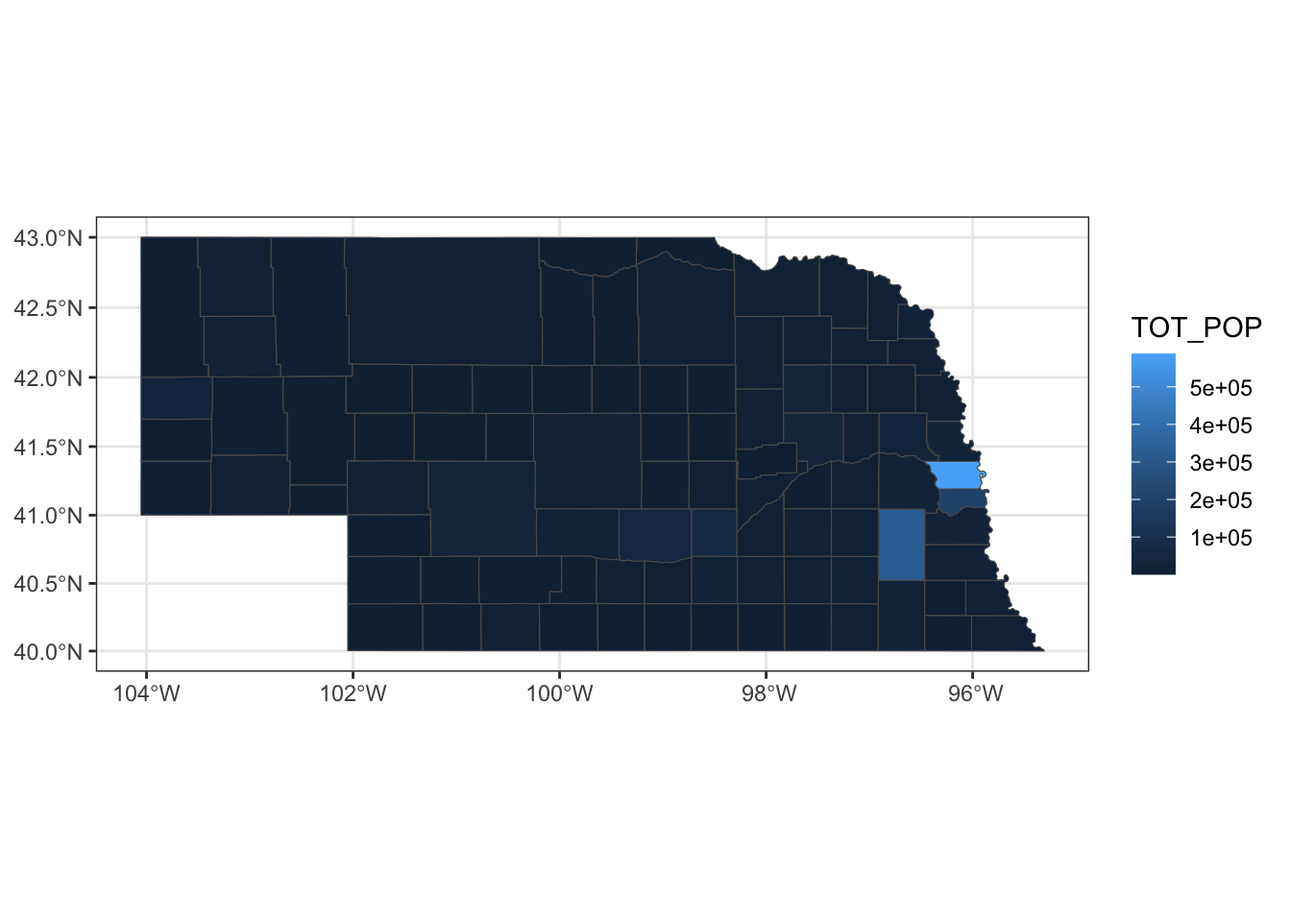
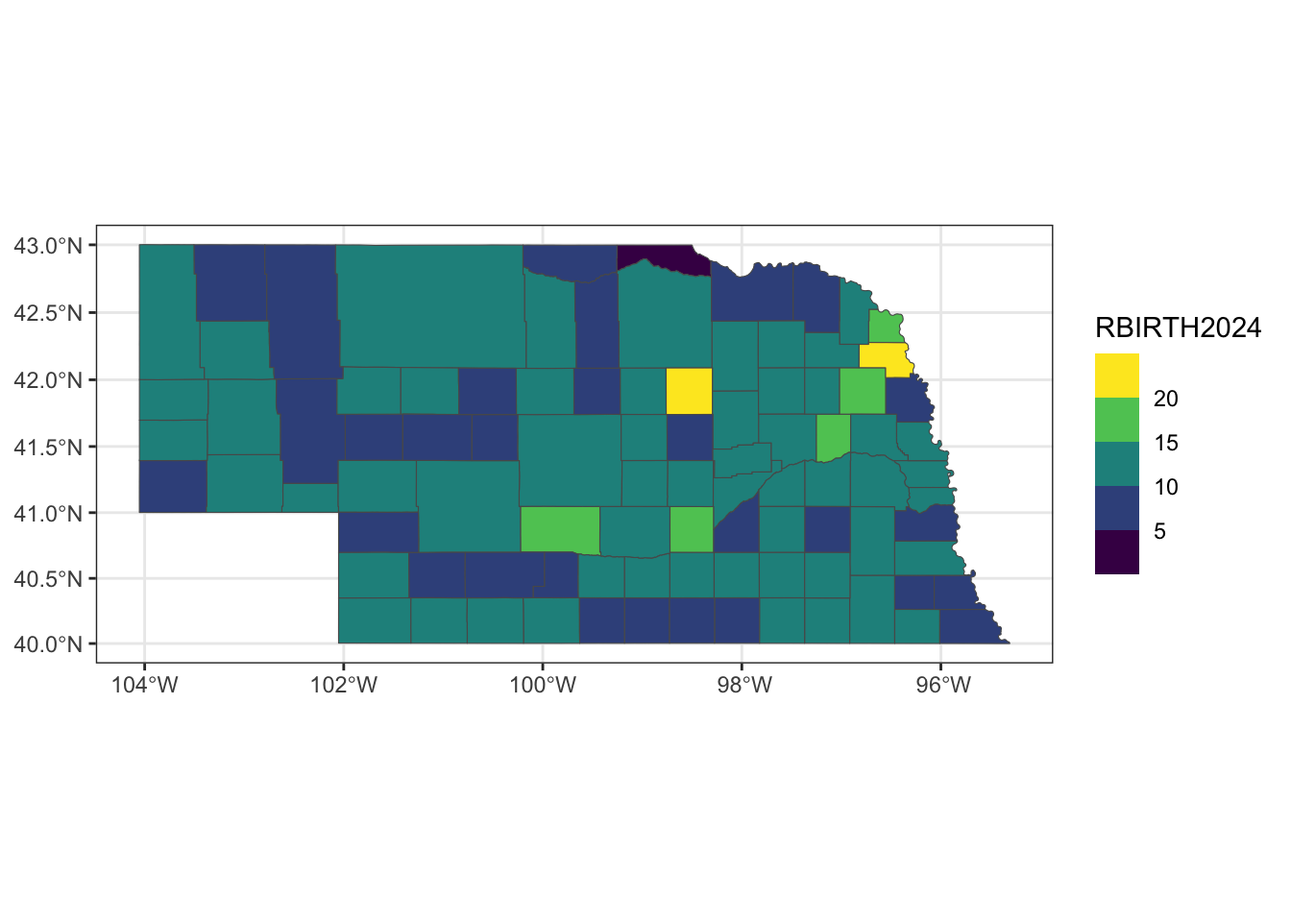
map making

diff --git a/Map_module.html b/Map_module.html
@@ -14,7 +14,7 @@
 
 <title>Mini-Module: Making Maps</title>
 
-<script src="site_libs/header-attrs-2.29/header-attrs.js"></script>
+<script src="site_libs/header-attrs-2.30/header-attrs.js"></script>
 <script src="site_libs/jquery-3.6.0/jquery-3.6.0.min.js"></script>
 <meta name="viewport" content="width=device-width, initial-scale=1" />
 <link href="site_libs/bootstrap-3.3.5/css/sandstone.min.css" rel="stylesheet" />
@@ -359,7 +359,8 @@ from somewhere.</p>
 <h3>Load packages:</h3>
 <pre class="r"><code>library(tidyverse)
 library(sf)
-library(tmap)</code></pre>
+library(tmap)
+library(tigris)</code></pre>
 </div>
 <div id="download-shapefile-plot-nebraska-example"
 class="section level3">
@@ -836,18 +837,84 @@ head(co_data)</code></pre>
 <p><img src="Map_module_files/figure-html/unnamed-chunk-17-1.png" width="672" /></p>
 <pre class="r"><code>ggplot() +
   geom_sf(data=ne_full2024, aes(fill=POPESTIMATE2024)) +
+  scale_fill_viridis_b() +
   theme_bw()</code></pre>
 <p><img src="Map_module_files/figure-html/unnamed-chunk-18-1.png" width="672" /></p>
-<pre class="r"><code># ggplot() +
-#   geom_sf(data=ne_full2024, aes(fill=RBIRTH2024)) +
-#   theme_bw()</code></pre>
-<pre class="r"><code># unl=data.frame(long=693966.4754863544, lat=4521321.303476614 )
-# 
-# ggplot() +
-#   geom_sf(data=ne_full2024, aes(fill=NPOPCHG2024)) +
-#   annotate(&quot;point&quot;, x=unl$long, y=unl$lat) +
-#   theme_bw() </code></pre>
+<p>Birth rate in 2024</p>
+<pre class="r"><code>ggplot() +
+  geom_sf(data=ne_full2024, aes(fill=RBIRTH2024)) +
+  scale_fill_viridis_b() +
+  theme_bw()</code></pre>
+<p><img src="Map_module_files/figure-html/unnamed-chunk-19-1.png" width="672" /></p>
+<p>International migration rate in 2024</p>
+<pre class="r"><code>ggplot() +
+  geom_sf(data=ne_full2024, aes(fill=RINTERNATIONALMIG2024)) +
+  scale_fill_viridis_b() +
+  theme_bw()</code></pre>
+<p><img src="Map_module_files/figure-html/unnamed-chunk-20-1.png" width="672" /></p>
 </div>
+<div id="use-tigris-package" class="section level3">
+<h3>Use tigris package</h3>
+<pre class="r"><code>ne_tig=counties(&quot;Nebraska&quot;, cb=TRUE)</code></pre>
+<pre><code>## Retrieving data for the year 2024</code></pre>
+<pre><code>##   |                                                                              |                                                                      |   0%  |                                                                              |                                                                      |   1%  |                                                                              |=                                                                     |   1%  |                                                                              |=                                                                     |   2%  |                                                                              |==                                                                    |   2%  |                                                                              |==                                                                    |   3%  |                                                                              |==                                                                    |   4%  |                                                                              |===                                                                   |   4%  |                                                                              |===                                                                   |   5%  |                                                                              |====                                                                  |   5%  |                                                                              |====                                                                  |   6%  |                                                                              |=====                                                                 |   6%  |                                                                              |=====                                                                 |   7%  |                                                                              |=====                                                                 |   8%  |                                                                              |======                                                                |   8%  |                                                                              |======                                                                |   9%  |                                                                              |=======                                                               |   9%  |                                                                              |=======                                                               |  10%  |                                                                              |=======                                                               |  11%  |                                                                              |========                                                              |  11%  |                                                                              |========                                                              |  12%  |                                                                              |=========                                                             |  12%  |                                                                              |=========                                                             |  13%  |                                                                              |=========                                                             |  14%  |                                                                              |==========                                                            |  14%  |                                                                              |==========                                                            |  15%  |                                                                              |===========                                                           |  15%  |                                                                              |===========                                                           |  16%  |                                                                              |============                                                          |  16%  |                                                                              |============                                                          |  17%  |                                                                              |============                                                          |  18%  |                                                                              |=============                                                         |  18%  |                                                                              |=============                                                         |  19%  |                                                                              |==============                                                        |  19%  |                                                                              |==============                                                        |  20%  |                                                                              |==============                                                        |  21%  |                                                                              |===============                                                       |  21%  |                                                                              |===============                                                       |  22%  |                                                                              |================                                                      |  22%  |                                                                              |================                                                      |  23%  |                                                                              |================                                                      |  24%  |                                                                              |=================                                                     |  24%  |                                                                              |=================                                                     |  25%  |                                                                              |==================                                                    |  25%  |                                                                              |==================                                                    |  26%  |                                                                              |===================                                                   |  26%  |                                                                              |===================                                                   |  27%  |                                                                              |===================                                                   |  28%  |                                                                              |====================                                                  |  28%  |                                                                              |====================                                                  |  29%  |                                                                              |=====================                                                 |  29%  |                                                                              |=====================                                                 |  30%  |                                                                              |=====================                                                 |  31%  |                                                                              |======================                                                |  31%  |                                                                              |======================                                                |  32%  |                                                                              |=======================                                               |  32%  |                                                                              |=======================                                               |  33%  |                                                                              |=======================                                               |  34%  |                                                                              |========================                                              |  34%  |                                                                              |========================                                              |  35%  |                                                                              |=========================                                             |  35%  |                                                                              |=========================                                             |  36%  |                                                                              |==========================                                            |  36%  |                                                                              |==========================                                            |  37%  |                                                                              |==========================                                            |  38%  |                                                                              |===========================                                           |  38%  |                                                                              |===========================                                           |  39%  |                                                                              |============================                                          |  39%  |                                                                              |============================                                          |  40%  |                                                                              |============================                                          |  41%  |                                                                              |=============================                                         |  41%  |                                                                              |=============================                                         |  42%  |                                                                              |==============================                                        |  42%  |                                                                              |==============================                                        |  43%  |                                                                              |==============================                                        |  44%  |                                                                              |===============================                                       |  44%  |                                                                              |===============================                                       |  45%  |                                                                              |================================                                      |  45%  |                                                                              |================================                                      |  46%  |                                                                              |=================================                                     |  46%  |                                                                              |=================================                                     |  47%  |                                                                              |=================================                                     |  48%  |                                                                              |==================================                                    |  48%  |                                                                              |==================================                                    |  49%  |                                                                              |===================================                                   |  49%  |                                                                              |===================================                                   |  50%  |                                                                              |===================================                                   |  51%  |                                                                              |====================================                                  |  51%  |                                                                              |====================================                                  |  52%  |                                                                              |=====================================                                 |  52%  |                                                                              |=====================================                                 |  53%  |                                                                              |=====================================                                 |  54%  |                                                                              |======================================                                |  54%  |                                                                              |======================================                                |  55%  |                                                                              |=======================================                               |  55%  |                                                                              |=======================================                               |  56%  |                                                                              |========================================                              |  56%  |                                                                              |========================================                              |  57%  |                                                                              |========================================                              |  58%  |                                                                              |=========================================                             |  58%  |                                                                              |=========================================                             |  59%  |                                                                              |==========================================                            |  59%  |                                                                              |==========================================                            |  60%  |                                                                              |==========================================                            |  61%  |                                                                              |===========================================                           |  61%  |                                                                              |===========================================                           |  62%  |                                                                              |============================================                          |  62%  |                                                                              |============================================                          |  63%  |                                                                              |============================================                          |  64%  |                                                                              |=============================================                         |  64%  |                                                                              |=============================================                         |  65%  |                                                                              |==============================================                        |  65%  |                                                                              |==============================================                        |  66%  |                                                                              |===============================================                       |  67%  |                                                                              |===============================================                       |  68%  |                                                                              |================================================                      |  68%  |                                                                              |================================================                      |  69%  |                                                                              |=================================================                     |  69%  |                                                                              |=================================================                     |  70%  |                                                                              |=================================================                     |  71%  |                                                                              |==================================================                    |  71%  |                                                                              |==================================================                    |  72%  |                                                                              |===================================================                   |  72%  |                                                                              |===================================================                   |  73%  |                                                                              |===================================================                   |  74%  |                                                                              |====================================================                  |  74%  |                                                                              |====================================================                  |  75%  |                                                                              |=====================================================                 |  75%  |                                                                              |=====================================================                 |  76%  |                                                                              |======================================================                |  77%  |                                                                              |======================================================                |  78%  |                                                                              |=======================================================               |  78%  |                                                                              |=======================================================               |  79%  |                                                                              |========================================================              |  79%  |                                                                              |========================================================              |  80%  |                                                                              |========================================================              |  81%  |                                                                              |=========================================================             |  81%  |                                                                              |=========================================================             |  82%  |                                                                              |==========================================================            |  82%  |                                                                              |==========================================================            |  83%  |                                                                              |==========================================================            |  84%  |                                                                              |===========================================================           |  84%  |                                                                              |===========================================================           |  85%  |                                                                              |============================================================          |  85%  |                                                                              |============================================================          |  86%  |                                                                              |=============================================================         |  87%  |                                                                              |=============================================================         |  88%  |                                                                              |==============================================================        |  88%  |                                                                              |==============================================================        |  89%  |                                                                              |===============================================================       |  89%  |                                                                              |===============================================================       |  90%  |                                                                              |===============================================================       |  91%  |                                                                              |================================================================      |  91%  |                                                                              |================================================================      |  92%  |                                                                              |=================================================================     |  92%  |                                                                              |=================================================================     |  93%  |                                                                              |=================================================================     |  94%  |                                                                              |==================================================================    |  94%  |                                                                              |==================================================================    |  95%  |                                                                              |===================================================================   |  95%  |                                                                              |===================================================================   |  96%  |                                                                              |====================================================================  |  97%  |                                                                              |====================================================================  |  98%  |                                                                              |===================================================================== |  98%  |                                                                              |===================================================================== |  99%  |                                                                              |======================================================================|  99%  |                                                                              |======================================================================| 100%</code></pre>
+<pre class="r"><code>ne_tig</code></pre>
+<pre><code>## Simple feature collection with 93 features and 12 fields
+## Geometry type: MULTIPOLYGON
+## Dimension:     XY
+## Bounding box:  xmin: -104.0535 ymin: 40 xmax: -95.30829 ymax: 43.00171
+## Geodetic CRS:  NAD83
+## First 10 features:
+##      STATEFP COUNTYFP COUNTYNS        GEOIDFQ GEOID      NAME         NAMELSAD
+## 211       31      115 00835879 0500000US31115 31115      Loup      Loup County
+## 212       31      005 00835825 0500000US31005 31005    Arthur    Arthur County
+## 580       31      075 00835859 0500000US31075 31075     Grant     Grant County
+## 581       31      091 00835867 0500000US31091 31091    Hooker    Hooker County
+## 699       31      185 00835914 0500000US31185 31185      York      York County
+## 972       31      093 00835868 0500000US31093 31093    Howard    Howard County
+## 973       31      113 00835878 0500000US31113 31113     Logan     Logan County
+## 974       31      103 00835873 0500000US31103 31103 Keya Paha Keya Paha County
+## 984       31      077 00835860 0500000US31077 31077   Greeley   Greeley County
+## 1292      31      171 00835907 0500000US31171 31171    Thomas    Thomas County
+##      STUSPS STATE_NAME LSAD      ALAND   AWATER                       geometry
+## 211      NE   Nebraska   06 1459046157 20032911 MULTIPOLYGON (((-99.68696 4...
+## 212      NE   Nebraska   06 1852234562  7644718 MULTIPOLYGON (((-101.9856 4...
+## 580      NE   Nebraska   06 2011633360 17249018 MULTIPOLYGON (((-102.0666 4...
+## 581      NE   Nebraska   06 1867293650  1385457 MULTIPOLYGON (((-101.4266 4...
+## 699      NE   Nebraska   06 1482809122  8579992 MULTIPOLYGON (((-97.82629 4...
+## 972      NE   Nebraska   06 1474401357 16376495 MULTIPOLYGON (((-98.74917 4...
+## 973      NE   Nebraska   06 1478101926  1203586 MULTIPOLYGON (((-100.7139 4...
+## 974      NE   Nebraska   06 2001740192  2710300 MULTIPOLYGON (((-100.1984 4...
+## 984      NE   Nebraska   06 1475843022  2150066 MULTIPOLYGON (((-98.75222 4...
+## 1292     NE   Nebraska   06 1845505749  2087569 MULTIPOLYGON (((-100.8461 4...</code></pre>
+<pre class="r"><code>plot(ne_tig)</code></pre>
+<pre><code>## Warning: plotting the first 9 out of 12 attributes; use max.plot = 12 to plot
+## all</code></pre>
+<p><img src="Map_module_files/figure-html/unnamed-chunk-21-1.png" width="672" /></p>
+<pre class="r"><code>ne_tig2024=ne_tig %&gt;% mutate(COUNTYFP=as.numeric(COUNTYFP)) %&gt;% left_join(co_data %&gt;% filter(STNAME==&quot;Nebraska&quot;), by=join_by(&quot;COUNTYFP&quot;==&quot;COUNTY&quot;))</code></pre>
+<pre class="r"><code>ggplot() +
+  geom_sf(data=ne_tig2024, aes(fill=RINTERNATIONALMIG2024)) +
+  scale_fill_viridis_b() +
+  theme_bw()</code></pre>
+<p><img src="Map_module_files/figure-html/unnamed-chunk-23-1.png" width="672" /></p>
+</div>
+<div id="add-points" class="section level3">
+<h3>add points</h3>
+<pre class="r"><code>ne_cities=data.frame(city=c(&quot;Omaha&quot;, &quot;Lincoln&quot;, &quot;Grand Island&quot;), long=c(-95.94, -96.67, -98.34), lat=c(41.26, 40.8, 40.925 ))
+
+
+ggplot() +
+  geom_sf(data=ne_tig2024) +
+  geom_point(data=ne_cities, aes(x=long, y=lat), color=&quot;red&quot;, size=1.5) +
+  geom_text(data=ne_cities, aes(x=long+0.5, y=lat+0.2, label=city)) +
+  theme_bw()</code></pre>
+<p><img src="Map_module_files/figure-html/unnamed-chunk-24-1.png" width="672" /></p>
+</div>
+</div>
+<div id="tmap-package" class="section level2">
+<h2>tmap package</h2>
+<p>Use this page for reference: <a href="https://r.geocompx.org/adv-map"
+class="uri">https://r.geocompx.org/adv-map</a></p>
 </div>
 
 

diff --git a/site_libs/header-attrs-2.30/header-attrs.js b/site_libs/header-attrs-2.30/header-attrs.js
@@ -1,0 +1,12 @@
+// Pandoc 2.9 adds attributes on both header and div. We remove the former (to
+// be compatible with the behavior of Pandoc < 2.8).
+document.addEventListener('DOMContentLoaded', function(e) {
+  var hs = document.querySelectorAll("div.section[class*='level'] > :first-child");
+  var i, h, a;
+  for (i = 0; i < hs.length; i++) {
+    h = hs[i];
+    if (!/^h[1-6]$/i.test(h.tagName)) continue;  // it should be a header h1-h6
+    a = h.attributes;
+    while (a.length > 0) h.removeAttribute(a[0].name);
+  }
+});
